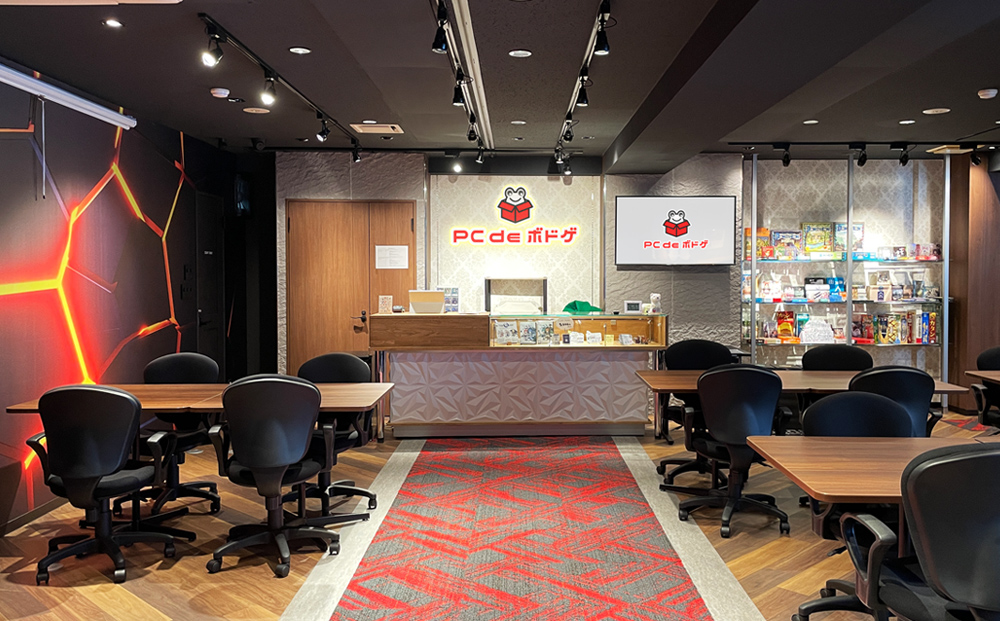
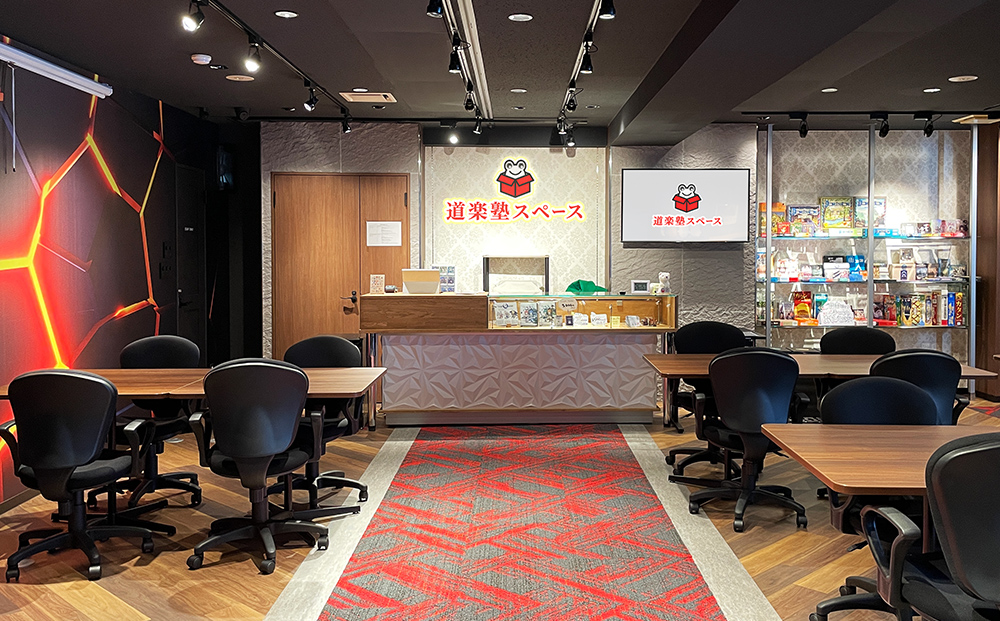
PCdeボドゲを道楽塾スペースに (#14)

diff --git a/public/space/index.html b/public/space/index.html
@@ -14,17 +14,17 @@
       })(window, document, "script", "dataLayer", "GTM-NW3Z8B49");
     </script>
     <meta charset="utf-8" />
-    <title>PC de ボドゲ</title>
+    <title>道楽塾スペース</title>
     <meta
       name="description"
-      content="トレカやボドゲのプレイスペース、PC de ボドゲ。ゲームの勝敗以外にも楽しみを得られる場。"
+      content="トレカやボドゲのプレイスペース、道楽塾スペース。ゲームの勝敗以外にも楽しみを得られる場。"
     />
     <meta
       name="keywords"
-      content="デュエルスペース,トレカ,ポケモンカード,PSAPSA鑑定取次,BOX販売,パック販売"
+      content="デュエルスペース,トレカ,ポケモンカード,PSA鑑定取次,BOX販売,パック販売"
     />
     <meta name="viewport" content="width=device-width,initial-scale=1" />
-    <meta property="og:title" content="PC de ボドゲ - トレカやボドゲのプレイスペース" />
+    <meta property="og:title" content="道楽塾スペース - トレカやボドゲのプレイスペース" />
     <meta property="og:type" content="website" />
     <meta property="og:url" content="https://torecaswap.com/space" />
     <meta
@@ -33,9 +33,9 @@
     />
     <meta
       property="og:description"
-      content="トレカやボドゲのプレイスペース、PC de ボドゲ。"
+      content="トレカやボドゲのプレイスペース、道楽塾スペース。"
     />
-    <meta property="og:site_name" content="PC de ボドゲ" />
+    <meta property="og:site_name" content="道楽塾スペース" />
     <meta property="og:locale" content="ja_JP" />
     <link rel="preconnect" href="https://fonts.googleapis.com" />
     <link rel="preconnect" href="https://fonts.gstatic.com" crossorigin />
@@ -82,11 +82,11 @@
     <div class="wrapper">
 
     <header>
-      <div class="logo_bodoge"><a href="#"><img src="images/pcdebodoge_logo_black.svg" alt="" /></a></div>
+      <div class="logo_bodoge"><a href="#"><img src="images/dourakujuku_logo.svg" alt="" /></a></div>
 
       <ul class="header-nav">
         <li class="x_logo">
-          <a href="https://twitter.com/pcdebodoge" class="c-header__list-link" target="_blank" rel="noopener noreferrer"><img src="images/x_logo.svg" alt="PC de ボドゲ X"></a>
+          <a href="https://twitter.com/pcdebodoge" class="c-header__list-link" target="_blank" rel="noopener noreferrer"><img src="images/x_logo.svg" alt="道楽塾スペース X"></a>
         </li>
       
         <li>
@@ -103,16 +103,15 @@
 
     <section class="mv">
     <div class="text_area">
-      <h1>
-        PCでボドゲ<wbr>するなら秋葉原の<br><span class="font50" style="margin-left: -0.5em;">「PC de ボドゲ」</span>
-      </h1>
+      <!-- <h1>
+        PCでボドゲ<wbr>するなら秋葉原の<br><span class="font50" style="margin-left: -0.5em;">「道楽塾スペース」</span>
+      </h1> -->
       <div class="catch">
-    <p class="l-MV__text p-MV__text">
-      
-
+    <!-- <p class="l-MV__text p-MV__text">
       <p class="catch_large">手ブラでOK! <wbr>PC貸与!!</p>
       <p class="catch_large_sp">手ブラでOK! <br>PC貸与!!</p>
-      PC・飲食物持ち込みOK!</p></div>
+      PC・飲食物持ち込みOK!</p> -->
+    </div>
       </div>
     </section>
     
@@ -172,7 +171,7 @@
     <section>
       
       <div class="shop">
-        PC de ボドゲ <wbr>店内
+        道楽塾スペース <wbr>店内
         <p class="padding_20"></p>
         <div class="image_3d">
           <div><a href="images/shop5.jpg" data-lightbox="group"><img src="images/shop5.jpg" alt=""></a></div>

diff --git a/public/space/css/style.css b/public/space/css/style.css
@@ -165,10 +165,10 @@ main.scss
 @media screen and (max-width: 450px) {
   .mv {
     background: url(../images/space_mv_sp.jpg) no-repeat;
-    background-size: cover;
-    background-position: top;
+    background-size: 100%;
+    background-position: center;
     width: 95%;
-    height: 450px;
+    height: 190px;
   }
 }
 .mv h1 {

diff --git a/public/space/css/_main.scss b/public/space/css/_main.scss
@@ -42,10 +42,11 @@ main.scss
 
   @include mq(small) {
     background: url(../images/space_mv_sp.jpg) no-repeat;
-    background-size:cover;
-    background-position: top;
+    background-size:100%;
+    background-position: center;
     width: 95%;
-    height: 450px;
+    height: 190px;
+    // height: 450px;
   }
 
   h1{
